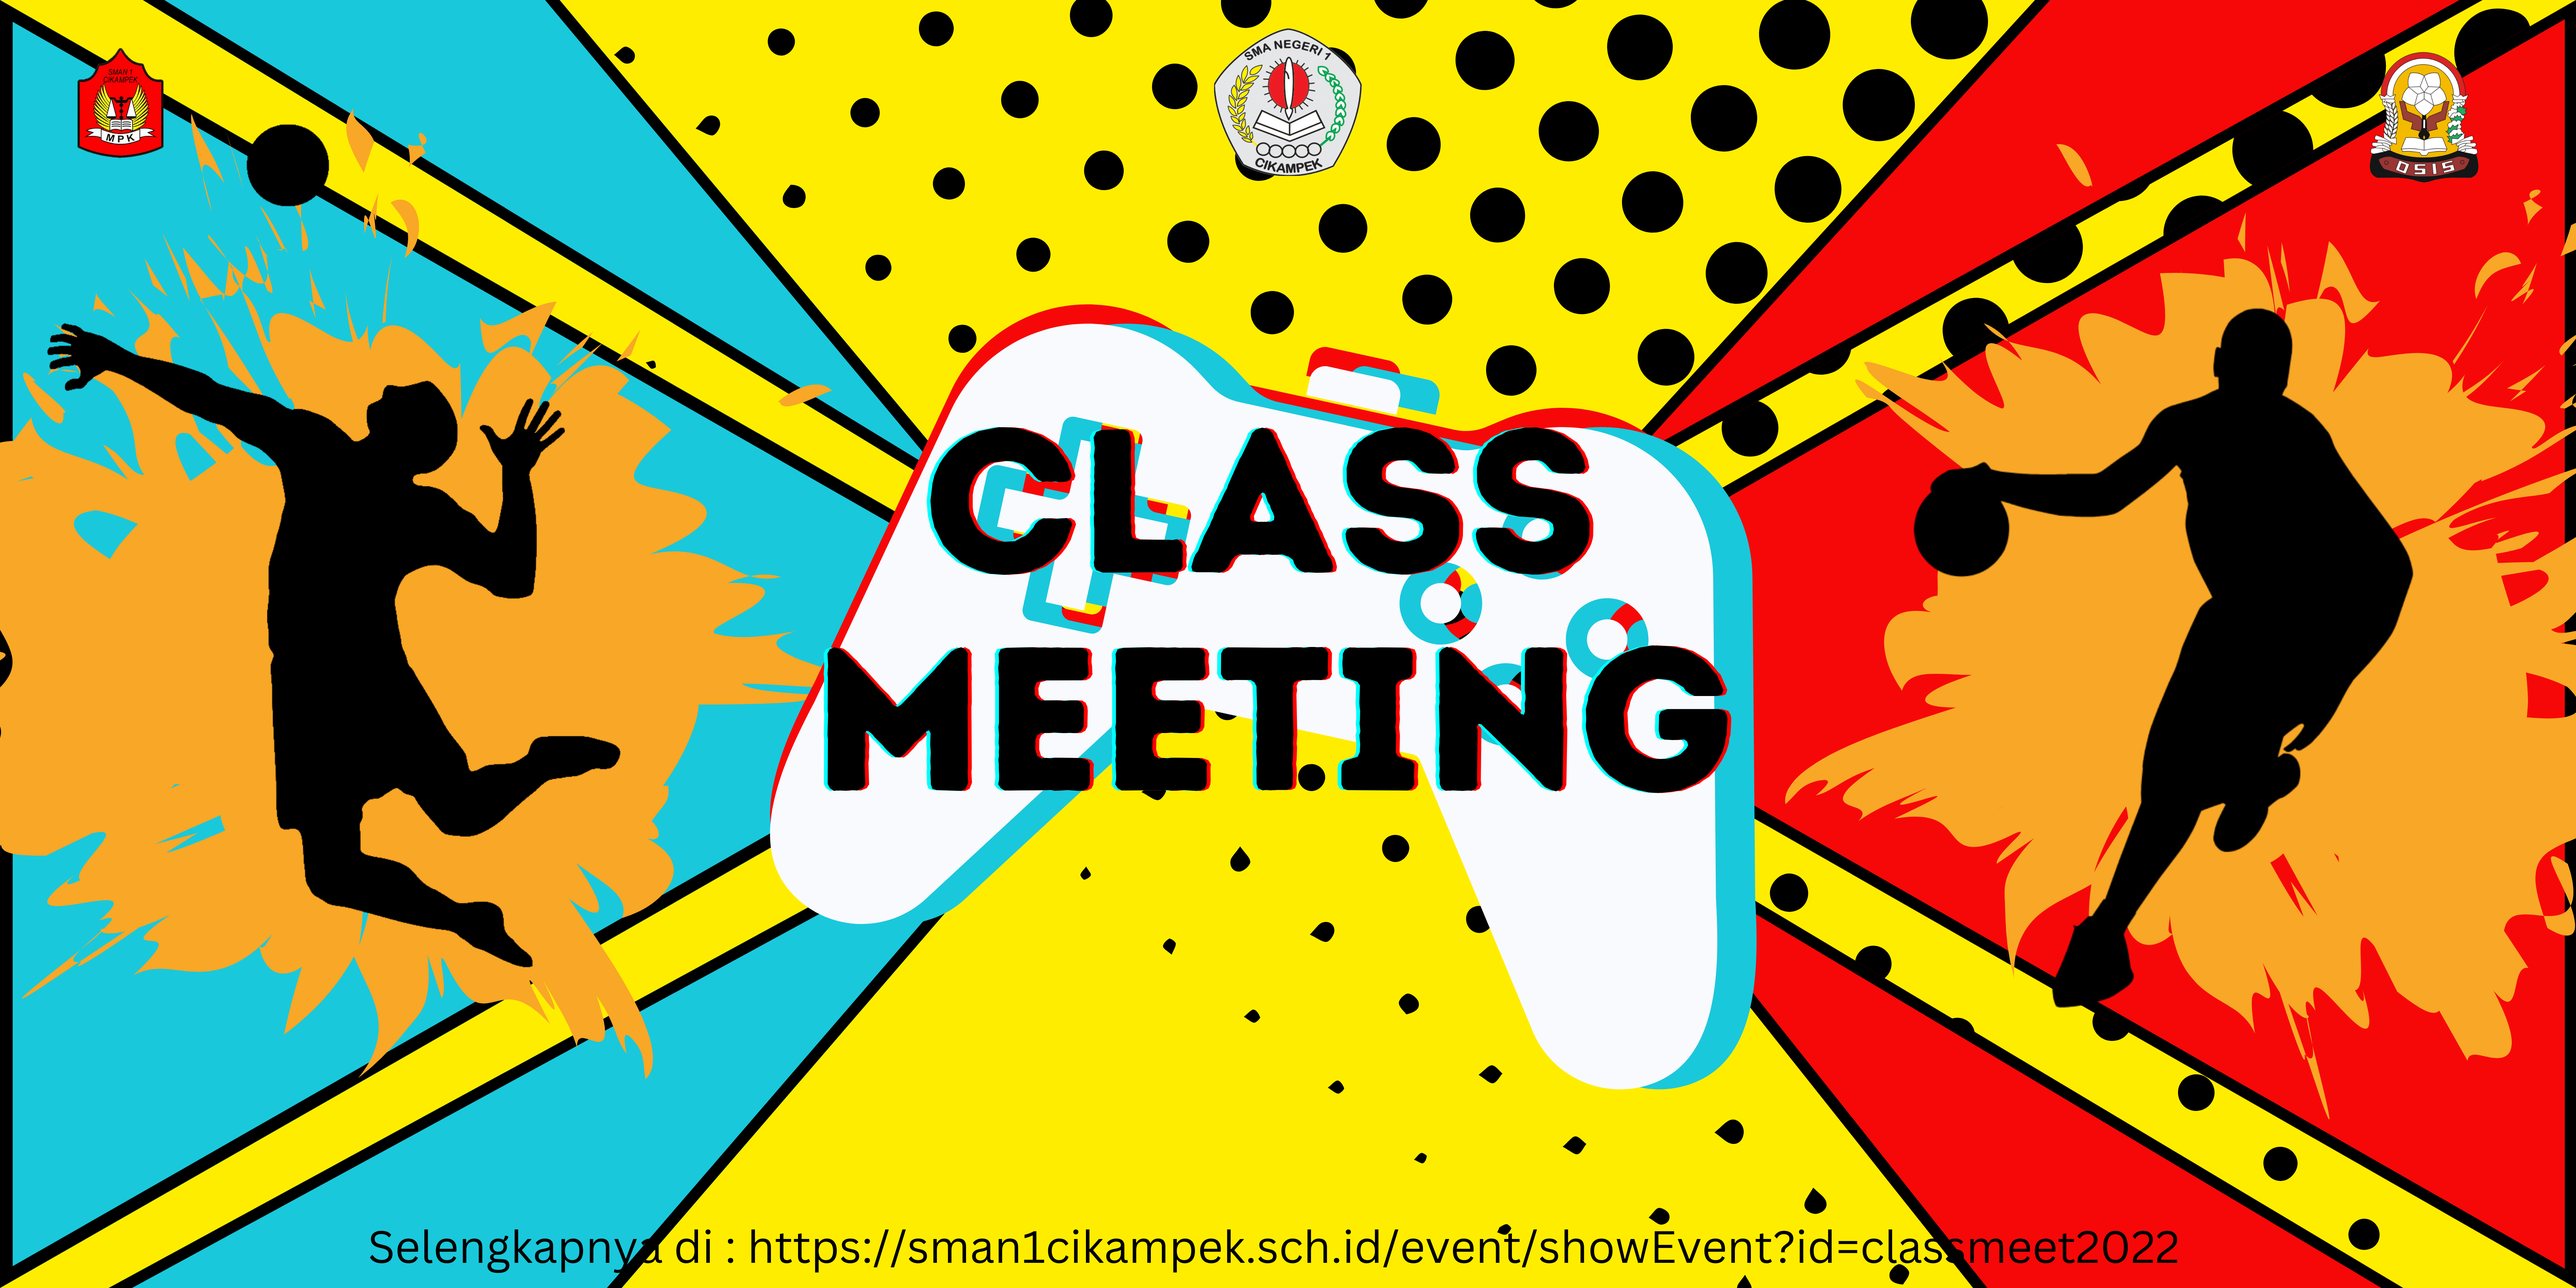
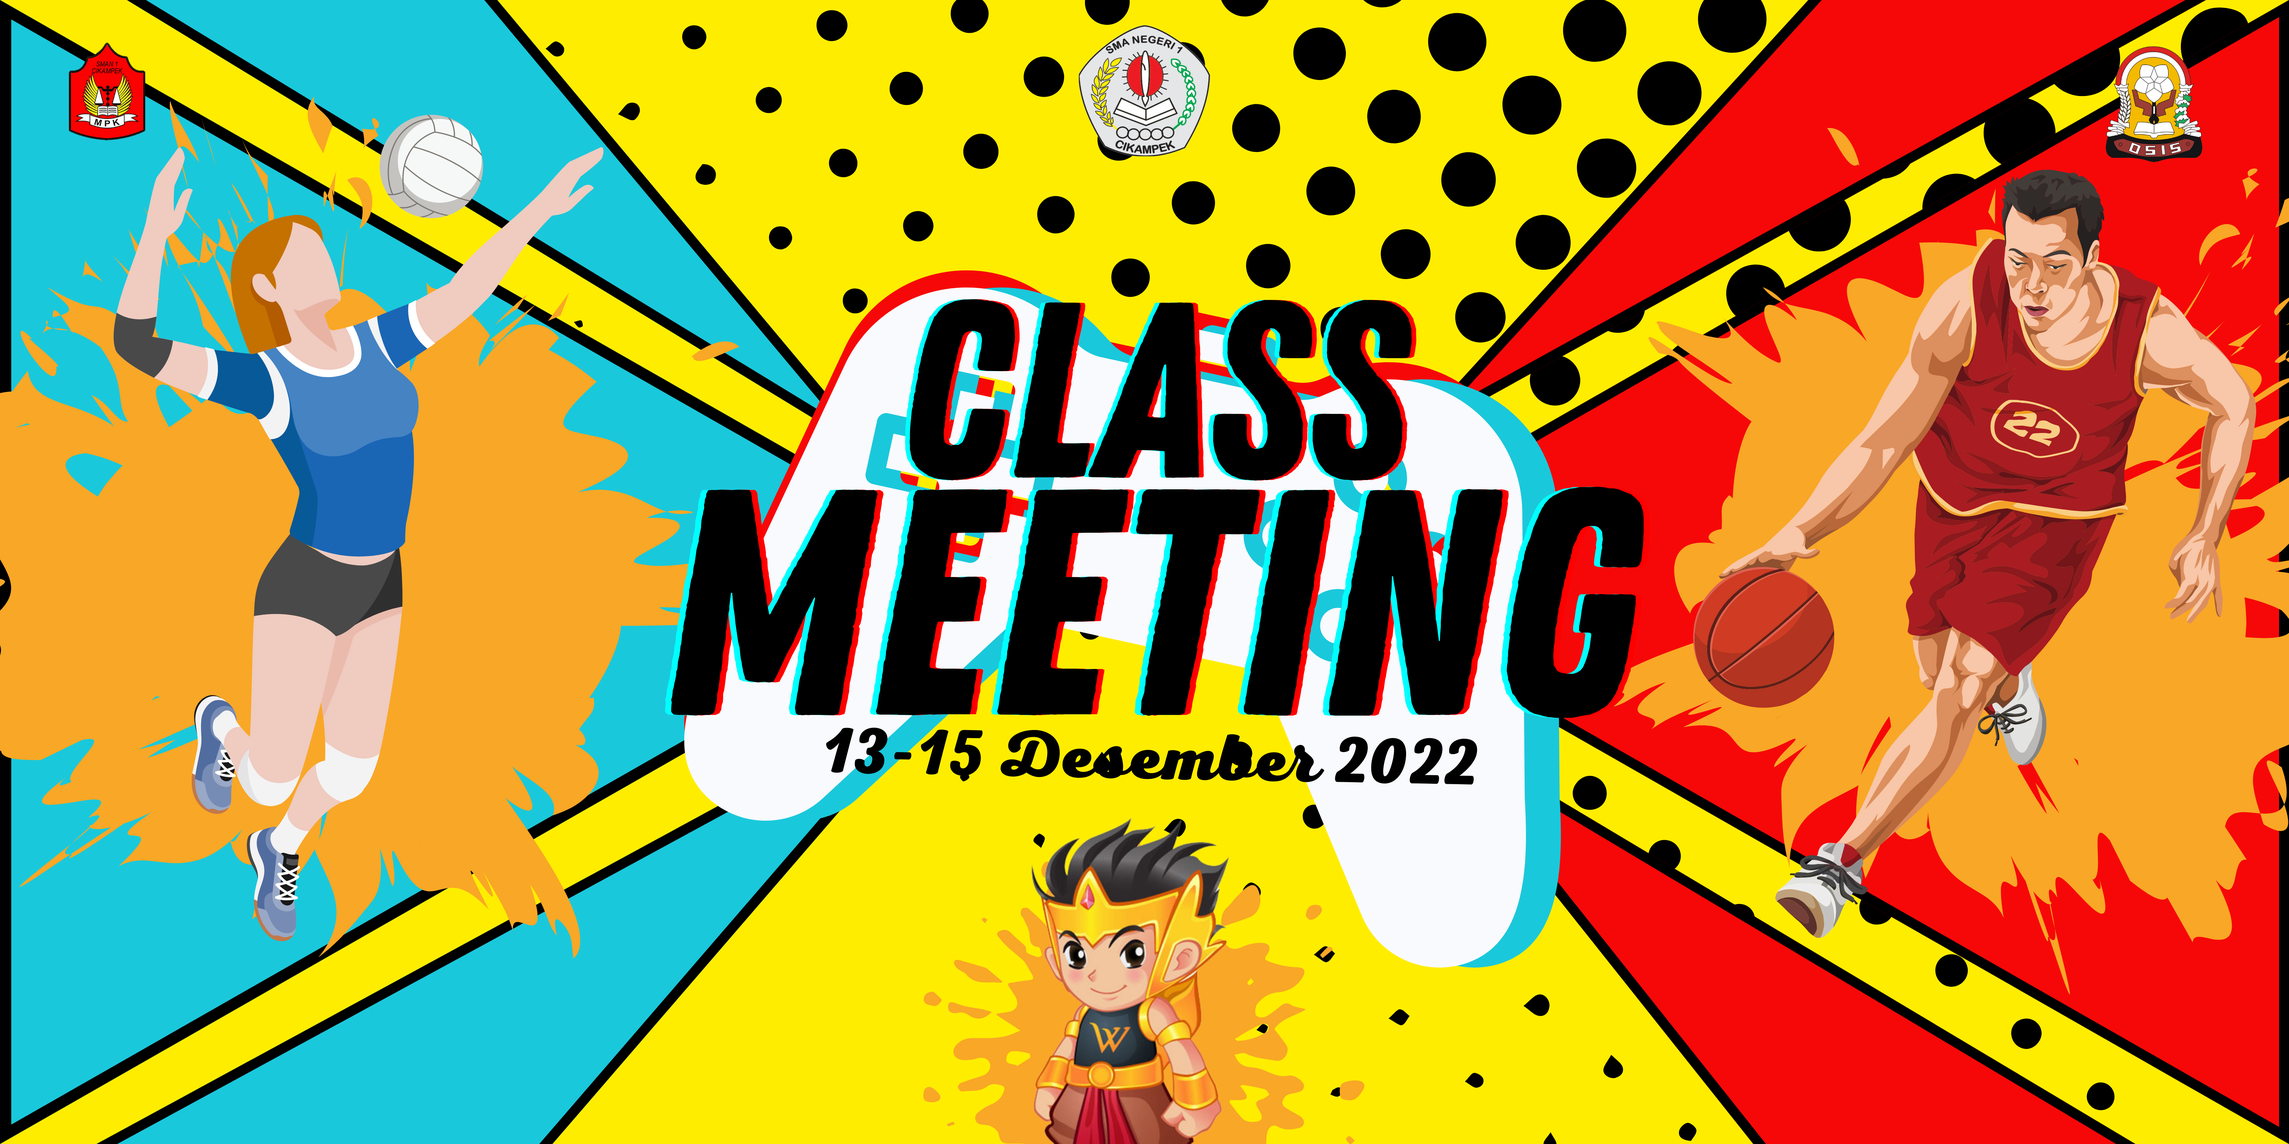
aaa

diff --git a/src/assets/js/event.js b/src/assets/js/event.js
@@ -22,7 +22,7 @@ async function main(){
         return
     }
     let data = await res.json()
-    let event = data.find(e => e.id===id)
+    let event = data.find(e => e.id.toLowerCase()===id.toLowerCase())
     if(!event){
         document.querySelector("#nama").innerText = "Event tidak ditemukan"
         return 

diff --git a/events/event/EsportCM22.md b/events/event/EsportCM22.md
@@ -1,0 +1,24 @@
+
+![Banner](https://github.com/RPLSaci/Event_Osis/raw/main/events/event/classmeet2022.png)
+
+## Daftar Game
+- Mobile Legends Bang Bang
+
+## Peraturan Esport
+- Permainan di lakukan dengan sportif
+- Pemain dan team di larang keras menggunakan script
+- Tim yang curang akan di diskualifikasi
+- Tim harus berisi perempuan dan laki laki
+
+## Partisipan
+Kelas 12, Kelas 11, kelas 10
+
+## Lokasi
+Ruangan Kelas 10A-10C
+
+
+## Bagan
+Belum ada....
+
+
+# [Kembali ke page awal](?id=classmeet2022)

diff --git a/events/event/BasketCM22.md b/events/event/BasketCM22.md
@@ -1,0 +1,20 @@
+
+![Banner](https://github.com/RPLSaci/Event_Osis/raw/main/events/event/classmeet2022.png)
+
+## Peraturan Basket
+- Permainan di lakukan dengan sportif
+- Peraturan mengikuti aturan standar permainan Basket nasional
+- Tim yang curang akan di diskualifikasi
+
+## Partisipan
+Kelas 12
+
+## Lokasi
+Lapangan Basket SMAN 1 CIKAMPEK
+
+
+## Bagan
+Belum ada....
+
+
+# [Kembali ke page awal](?id=classmeet2022)

diff --git a/events/event/VollyCM22.md b/events/event/VollyCM22.md
@@ -1,0 +1,20 @@
+
+![Banner](https://github.com/RPLSaci/Event_Osis/raw/main/events/event/classmeet2022.png)
+
+## Peraturan Volly
+- Permainan di lakukan dengan sportif
+- Peraturan mengikuti aturan standar permainan volly nasional
+- Tim yang curang akan di diskualifikasi
+
+## Partisipan
+Kelas 12
+
+## Lokasi
+Lapangan Volly SMAN 1 CIKAMPEK
+
+
+## Bagan
+Belum ada....
+
+
+# [Kembali ke page awal](?id=classmeet2022)

diff --git a/events/event/classmeet2022.md b/events/event/classmeet2022.md
@@ -5,9 +5,12 @@
 MPK-Osis SMAN 1 Cikampek
 
 ## Perlombaan
-- Voli
-- Basket
-- Esport
+- [Volly](?id=VollyCM22)
+- [Basket](?id=BasketCM22)
+- [Esport](?id=EsportCM22)
 
 ## Tanggal
-Kurang tahu
+13 - 15 Desember 2022
+
+## Lokasi
+[SMAN 1 CIKAMPEK](https://sman1cikampek.sch.id)
